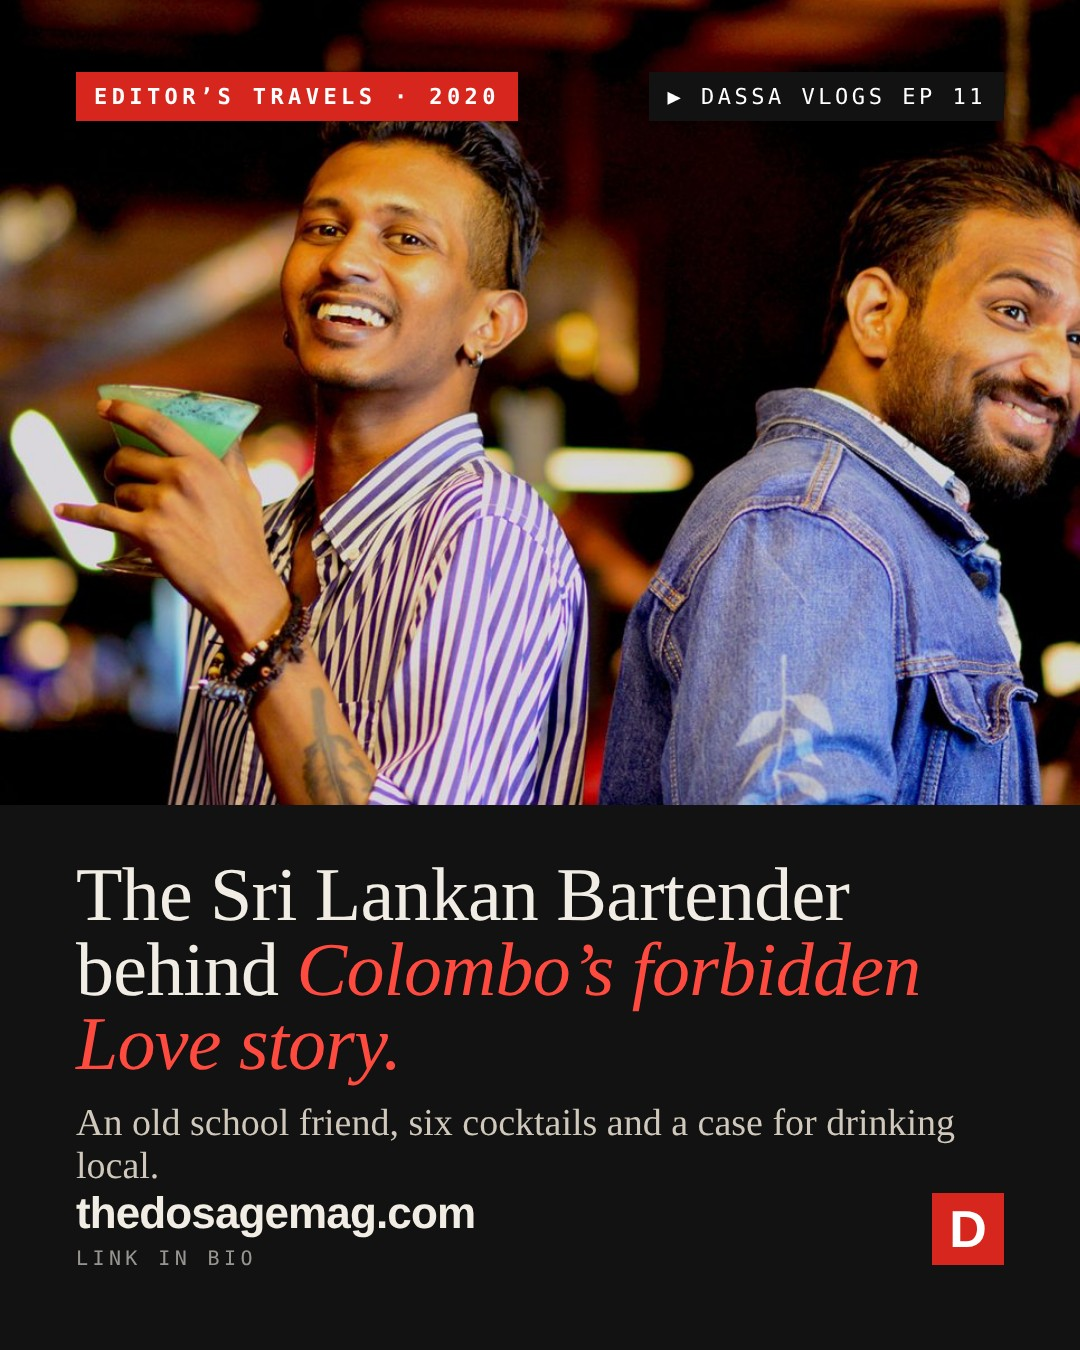
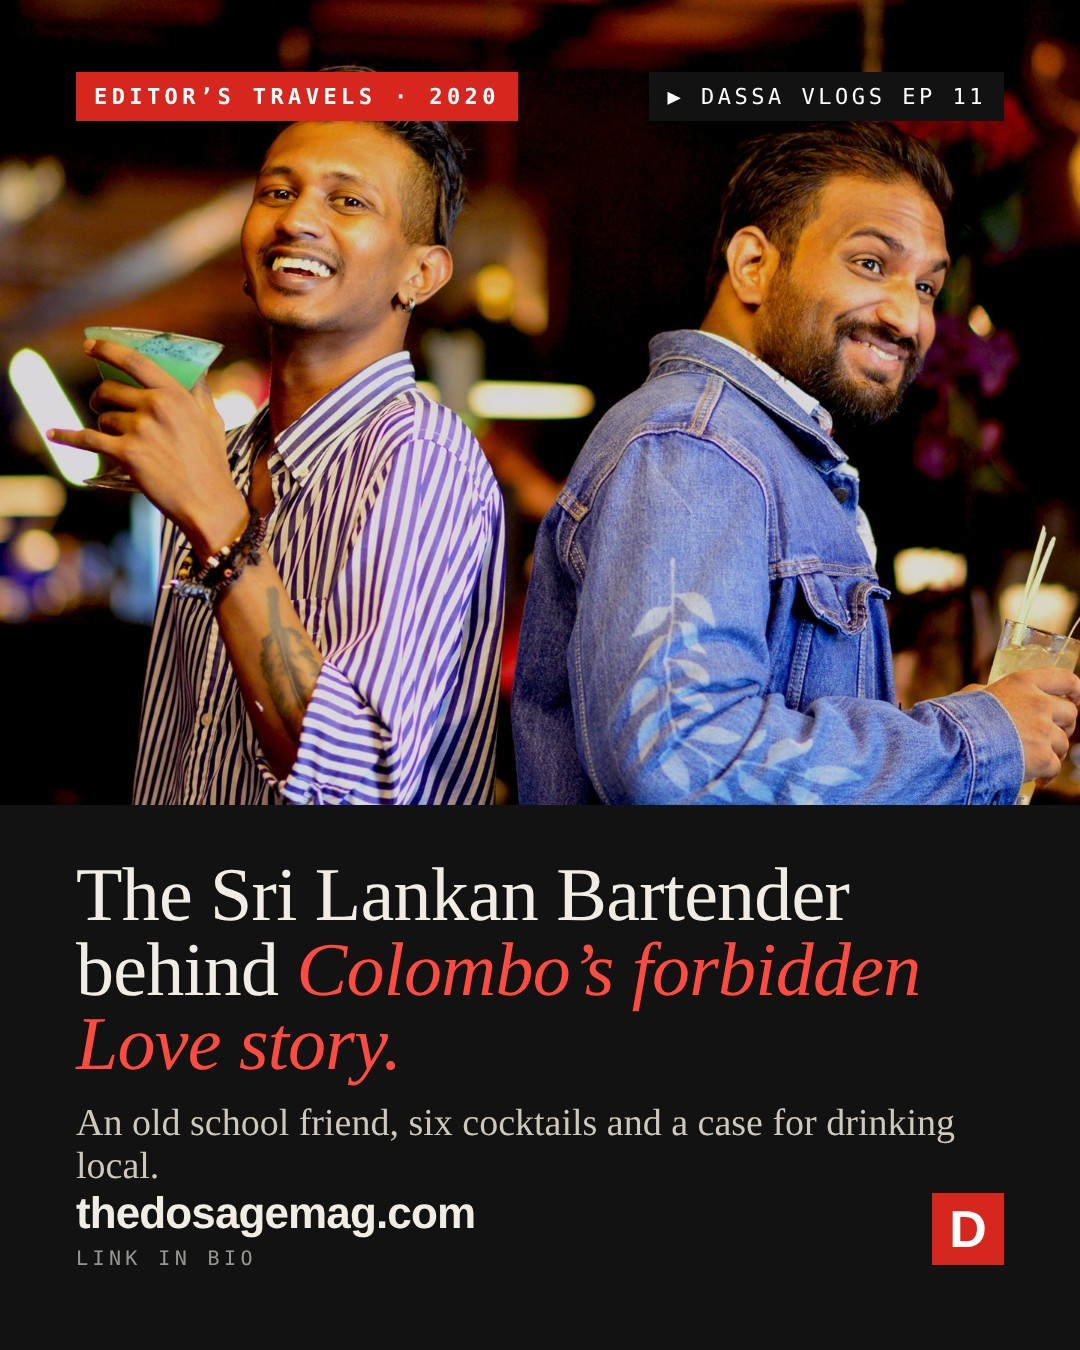
Full credits, photographer credit and cleaner Love Bar photo

diff --git a/src/the-dosage.html b/src/the-dosage.html
@@ -248,6 +248,10 @@ footer a{color:inherit}
 .pic figcaption{font-family:var(--mono);font-size:.72rem;letter-spacing:.06em;color:var(--muted);margin-top:8px}
 .pic.duo{display:grid;grid-template-columns:1fr 1fr;gap:8px}
 .pic.duo figcaption{grid-column:1/-1}
+
+.credits{list-style:none;padding:0;margin:0 0 16px;font-size:.98rem}
+.credits li{padding:6px 0;border-bottom:1px solid var(--rule)}
+.credits b{font-family:var(--mono);font-weight:500;font-size:.72rem;letter-spacing:.12em;text-transform:uppercase;color:var(--muted);margin-right:6px}
 </style>
 
 <header class="bar">
@@ -782,15 +786,17 @@ footer a{color:inherit}
   <h1>The Sri Lankan Bartender behind Colombo's forbidden Love story</h1>
   <p class="dek">A chance meeting with an old school friend at the door of a Colombo 7 bar turned into a night of six cocktails and a case for drinking local.</p>
   <div class="byline"><span class="label red">Editor’s Travels</span><span class="label">Dassa Vlogs · Episode 11</span><span class="label">Eashaan Dassanayaka</span><span class="label">9 June 2020</span></div>
-  <figure class="pic"><img src="posts/img/travels/lovebar-cover.jpg" alt="Vimuth Joseph and Eashaan Dassanayaka with cocktails at the Love Bar, Colombo" width="1600" height="900" loading="lazy"><figcaption>At the Love Bar, Flamingo House, Colombo 7. Photo: Dassa Vlogs</figcaption></figure>
+  <figure class="pic"><img src="posts/img/travels/lovebar-photo.jpg" alt="Vimuth Joseph and Eashaan Dassanayaka with cocktails at the Love Bar, Colombo" width="1440" height="1152" loading="lazy"><figcaption>Vimuth Joseph and Eashaan at the Love Bar, Flamingo House, Colombo 7. Photo: Sebastian Olegard</figcaption></figure>
   <p>Eashaan had been back in Sri Lanka since March 2020 when he walked up to the Love Bar at Flamingo House, Colombo 7, and found Vimuth Joseph at the front door. The two went to school together. The last time they had seen each other was almost six years earlier.</p>
   <p>Vimuth and the bar’s management had just built a new cocktail menu, and Eashaan tasted all six drinks on camera. Most of the ingredients were sourced locally and made in-house, part of a campaign the bar was running to “eat local and drink local” and support Sri Lankan producers.</p>
   <blockquote>Six cocktails, an old friend, and a case for drinking local.</blockquote>
-  <figure class="pic"><img src="posts/img/travels/lovebar-eashaan.jpg" alt="Eashaan Dassanayaka at the Love Bar" width="720" height="720" loading="lazy"><figcaption>On the night at the Love Bar. Photo: Dassa Vlogs</figcaption></figure>
+  <figure class="pic"><img src="posts/img/travels/lovebar-eashaan.jpg" alt="Eashaan Dassanayaka at the Love Bar" width="720" height="720" loading="lazy"><figcaption>On the night at the Love Bar. Photo: Sebastian Olegard</figcaption></figure>
   <p>It was Eashaan’s second visit to the bar, and unlike his quicker vlogs, he spent real time on this one, so viewers could see the place properly.</p>
   <div class="watch"><span class="label red">▶ Watch</span><button type="button" class="yt big" data-yt="li_pTdyu1Z4" aria-label="Play video: The Sri Lankan Bartender behind Colombo's forbidden Love story : Dassa Vlogs ep 11"><img src="https://i.ytimg.com/vi/li_pTdyu1Z4/hqdefault.jpg" alt="" loading="lazy" width="480" height="360"><span class="play" aria-hidden="true"></span><span class="yt-t">The Sri Lankan Bartender behind Colombo's forbidden Love story : Dassa Vlogs ep 11</span></button></div>
   <section class="more-films" aria-label="More films from this story"><h2>More from this story</h2><div class="films"><button type="button" class="yt" data-yt="LPF9ghFLct8" aria-label="Play video: Dassa Vlogs Ep 11 Teaser"><img src="https://i.ytimg.com/vi/LPF9ghFLct8/hqdefault.jpg" alt="" loading="lazy" width="480" height="360"><span class="play" aria-hidden="true"></span><span class="yt-t">Dassa Vlogs Ep 11 Teaser</span></button></div></section>
-  <p class="note">Director and host: Eashaan Dassanayaka. Videographer: Panduka Malalanayake. Camera assistant: Avishka Perera. Photographer: Sebastian Olegard. Production assistant and editor: Janith Dassanayaka. Filmed at the Love Bar, Flamingo House, Colombo 7. First published on Dassa Vlogs, 9 June 2020.</p>
+  <h2>Credits</h2>
+  <ul class="credits"><li><b>Director and producer:</b> <a href="https://www.instagram.com/eashdas/" target="_blank" rel="noopener">Eashaan Dassanayaka</a></li><li><b>Videographer:</b> <a href="https://www.instagram.com/malalanayak/" target="_blank" rel="noopener">Panduka Malalanayake</a></li><li><b>Camera assistant:</b> <a href="https://www.instagram.com/avishka_cheese/" target="_blank" rel="noopener">Avishka Perera</a></li><li><b>Photographer:</b> <a href="https://www.instagram.com/sebastianolegard/" target="_blank" rel="noopener">Sebastian Olegard</a></li><li><b>Production assistant and editor:</b> <a href="https://www.instagram.com/janithdassanayaka/" target="_blank" rel="noopener">Janith Dassanayaka</a></li><li><b>Production house:</b> Extract and Design</li><li><b>Featuring:</b> Vimuth Joseph</li><li><b>Location:</b> <a href="https://www.instagram.com/thelovebarsl/" target="_blank" rel="noopener">The Love Bar</a>, Flamingo House, Colombo 7</li><li><b>Music:</b> YouTube Audio Library; teaser music by Quincas Moreira</li></ul>
+  <p class="note">A non-profit video, first published on Dassa Vlogs on 9 June 2020 (teaser 4 June 2020).</p>
 </article>
 
 <article class="page article" data-page="post-jeana" hidden>
@@ -798,11 +804,11 @@ footer a{color:inherit}
   <h1>Breaking the status quo with Jeana De Zoysa</h1>
   <p class="dek">On the banks of Bolgoda, an old friend and activist talks climate change, veganism and saving Sri Lanka’s wildlife.</p>
   <div class="byline"><span class="label red">Editor’s Travels</span><span class="label">Dassa Vlogs · Episode 13</span><span class="label">Eashaan Dassanayaka</span><span class="label">5 August 2020</span></div>
-  <figure class="pic"><img src="posts/img/travels/jeana-bolgoda.jpg" alt="Jeana De Zoysa and Eashaan Dassanayaka on a bench beside Bolgoda lake" width="1600" height="1066" loading="lazy"><figcaption>On location at Bolgoda, Panadura. Photo: Dassa Vlogs</figcaption></figure>
+  <figure class="pic"><img src="posts/img/travels/jeana-bolgoda.jpg" alt="Jeana De Zoysa and Eashaan Dassanayaka on a bench beside Bolgoda lake" width="1600" height="1066" loading="lazy"><figcaption>On location at Bolgoda, Panadura. Photo: Extract and Design</figcaption></figure>
   <p>A year earlier, Eashaan says, he was sceptical about climate change. Seeing its damage first-hand changed his mind, and this film was the result: a long, unhurried conversation with Jeana De Zoysa, a friend of ten years.</p>
   <p>Jeana was an active member of Extinction Rebellion Sri Lanka and campaigns for animal rights. Filmed at Bolgoda, Panadura, the conversation covers what drives climate change, why she chose a vegan life, and the work of protecting Sri Lanka’s wildlife.</p>
   <blockquote>From sceptic to believer, by seeing the damage first-hand.</blockquote>
-  <figure class="pic duo"><img src="posts/img/travels/jeana-portrait.jpg" alt="Jeana De Zoysa among leaves" width="1600" height="1066" loading="lazy"><img src="posts/img/travels/jeana-interview.jpg" alt="Eashaan and Jeana talking during filming" width="1600" height="898" loading="lazy"><figcaption>Jeana De Zoysa, and the conversation being filmed. Photos: Dassa Vlogs</figcaption></figure>
+  <figure class="pic duo"><img src="posts/img/travels/jeana-portrait.jpg" alt="Jeana De Zoysa among leaves" width="1600" height="1066" loading="lazy"><img src="posts/img/travels/jeana-interview.jpg" alt="Eashaan and Jeana talking during filming" width="1600" height="898" loading="lazy"><figcaption>Jeana De Zoysa, and the conversation being filmed. Photos: Extract and Design</figcaption></figure>
   <p>The film went out the week Sri Lanka voted in its 2020 general election.</p>
   <div class="watch"><span class="label red">▶ Watch</span><button type="button" class="yt big" data-yt="Cer00NxPsfk" aria-label="Play video: Breaking the status quo with Jeana De Zoysa : Dassa Vlogs EP 13"><img src="https://i.ytimg.com/vi/Cer00NxPsfk/hqdefault.jpg" alt="" loading="lazy" width="480" height="360"><span class="play" aria-hidden="true"></span><span class="yt-t">Breaking the status quo with Jeana De Zoysa : Dassa Vlogs EP 13</span></button></div>
   <h2>Causes mentioned in the film</h2>
@@ -810,7 +816,9 @@ footer a{color:inherit}
     <li><a href="https://scar.lk/" target="_blank" rel="noopener">Small Cat Advocacy &amp; Research (SCAR)</a>, which works to protect Sri Lanka’s wild cats</li>
     <li><a href="https://www.vegansociety.com/go-vegan/how-go-vegan" target="_blank" rel="noopener">The Vegan Society’s guide to going vegan</a></li>
   </ul>
-  <p class="note">Director and producer: Eashaan Dassanayaka. Videographer: Chirantha Jayasinhe. Camera assistant: Indika S. Made possible by The Vegan Kadey. Filmed at Bolgoda, Panadura. First published on Dassa Vlogs, 5 August 2020.</p>
+  <h2>Credits</h2>
+  <ul class="credits"><li><b>Director and producer:</b> <a href="https://www.instagram.com/eashdas/" target="_blank" rel="noopener">Eashaan Dassanayaka</a></li><li><b>Videographer:</b> Chirantha Jayasinhe</li><li><b>Camera assistant:</b> Indika S Kumara</li><li><b>Camera partner:</b> ASD camera rent</li><li><b>Production house:</b> Extract and Design</li><li><b>Talent:</b> Jeana De Zoysa</li><li><b>Made possible by:</b> <a href="https://www.facebook.com/vegankade/" target="_blank" rel="noopener">The Vegan Kadey</a></li><li><b>Location:</b> Bolgoda, Panadura</li><li><b>Music:</b> <a href="https://mixkit.co/" target="_blank" rel="noopener">Mixkit</a> and <a href="https://www.purple-planet.com/" target="_blank" rel="noopener">Purple Planet</a>; stock footage from Mixkit</li></ul>
+  <p class="note">A non-profit video, first published on Dassa Vlogs on 5 August 2020.</p>
 </article>
 
 <!-- ARTICLES -->

diff --git a/index.html b/index.html
@@ -254,6 +254,10 @@ footer a{color:inherit}
 .pic figcaption{font-family:var(--mono);font-size:.72rem;letter-spacing:.06em;color:var(--muted);margin-top:8px}
 .pic.duo{display:grid;grid-template-columns:1fr 1fr;gap:8px}
 .pic.duo figcaption{grid-column:1/-1}
+
+.credits{list-style:none;padding:0;margin:0 0 16px;font-size:.98rem}
+.credits li{padding:6px 0;border-bottom:1px solid var(--rule)}
+.credits b{font-family:var(--mono);font-weight:500;font-size:.72rem;letter-spacing:.12em;text-transform:uppercase;color:var(--muted);margin-right:6px}
 </style>
 </head>
 <body>
@@ -790,15 +794,17 @@ footer a{color:inherit}
   <h1>The Sri Lankan Bartender behind Colombo's forbidden Love story</h1>
   <p class="dek">A chance meeting with an old school friend at the door of a Colombo 7 bar turned into a night of six cocktails and a case for drinking local.</p>
   <div class="byline"><span class="label red">Editor’s Travels</span><span class="label">Dassa Vlogs · Episode 11</span><span class="label">Eashaan Dassanayaka</span><span class="label">9 June 2020</span></div>
-  <figure class="pic"><img src="posts/img/travels/lovebar-cover.jpg" alt="Vimuth Joseph and Eashaan Dassanayaka with cocktails at the Love Bar, Colombo" width="1600" height="900" loading="lazy"><figcaption>At the Love Bar, Flamingo House, Colombo 7. Photo: Dassa Vlogs</figcaption></figure>
+  <figure class="pic"><img src="posts/img/travels/lovebar-photo.jpg" alt="Vimuth Joseph and Eashaan Dassanayaka with cocktails at the Love Bar, Colombo" width="1440" height="1152" loading="lazy"><figcaption>Vimuth Joseph and Eashaan at the Love Bar, Flamingo House, Colombo 7. Photo: Sebastian Olegard</figcaption></figure>
   <p>Eashaan had been back in Sri Lanka since March 2020 when he walked up to the Love Bar at Flamingo House, Colombo 7, and found Vimuth Joseph at the front door. The two went to school together. The last time they had seen each other was almost six years earlier.</p>
   <p>Vimuth and the bar’s management had just built a new cocktail menu, and Eashaan tasted all six drinks on camera. Most of the ingredients were sourced locally and made in-house, part of a campaign the bar was running to “eat local and drink local” and support Sri Lankan producers.</p>
   <blockquote>Six cocktails, an old friend, and a case for drinking local.</blockquote>
-  <figure class="pic"><img src="posts/img/travels/lovebar-eashaan.jpg" alt="Eashaan Dassanayaka at the Love Bar" width="720" height="720" loading="lazy"><figcaption>On the night at the Love Bar. Photo: Dassa Vlogs</figcaption></figure>
+  <figure class="pic"><img src="posts/img/travels/lovebar-eashaan.jpg" alt="Eashaan Dassanayaka at the Love Bar" width="720" height="720" loading="lazy"><figcaption>On the night at the Love Bar. Photo: Sebastian Olegard</figcaption></figure>
   <p>It was Eashaan’s second visit to the bar, and unlike his quicker vlogs, he spent real time on this one, so viewers could see the place properly.</p>
   <div class="watch"><span class="label red">▶ Watch</span><button type="button" class="yt big" data-yt="li_pTdyu1Z4" aria-label="Play video: The Sri Lankan Bartender behind Colombo's forbidden Love story : Dassa Vlogs ep 11"><img src="https://i.ytimg.com/vi/li_pTdyu1Z4/hqdefault.jpg" alt="" loading="lazy" width="480" height="360"><span class="play" aria-hidden="true"></span><span class="yt-t">The Sri Lankan Bartender behind Colombo's forbidden Love story : Dassa Vlogs ep 11</span></button></div>
   <section class="more-films" aria-label="More films from this story"><h2>More from this story</h2><div class="films"><button type="button" class="yt" data-yt="LPF9ghFLct8" aria-label="Play video: Dassa Vlogs Ep 11 Teaser"><img src="https://i.ytimg.com/vi/LPF9ghFLct8/hqdefault.jpg" alt="" loading="lazy" width="480" height="360"><span class="play" aria-hidden="true"></span><span class="yt-t">Dassa Vlogs Ep 11 Teaser</span></button></div></section>
-  <p class="note">Director and host: Eashaan Dassanayaka. Videographer: Panduka Malalanayake. Camera assistant: Avishka Perera. Photographer: Sebastian Olegard. Production assistant and editor: Janith Dassanayaka. Filmed at the Love Bar, Flamingo House, Colombo 7. First published on Dassa Vlogs, 9 June 2020.</p>
+  <h2>Credits</h2>
+  <ul class="credits"><li><b>Director and producer:</b> <a href="https://www.instagram.com/eashdas/" target="_blank" rel="noopener">Eashaan Dassanayaka</a></li><li><b>Videographer:</b> <a href="https://www.instagram.com/malalanayak/" target="_blank" rel="noopener">Panduka Malalanayake</a></li><li><b>Camera assistant:</b> <a href="https://www.instagram.com/avishka_cheese/" target="_blank" rel="noopener">Avishka Perera</a></li><li><b>Photographer:</b> <a href="https://www.instagram.com/sebastianolegard/" target="_blank" rel="noopener">Sebastian Olegard</a></li><li><b>Production assistant and editor:</b> <a href="https://www.instagram.com/janithdassanayaka/" target="_blank" rel="noopener">Janith Dassanayaka</a></li><li><b>Production house:</b> Extract and Design</li><li><b>Featuring:</b> Vimuth Joseph</li><li><b>Location:</b> <a href="https://www.instagram.com/thelovebarsl/" target="_blank" rel="noopener">The Love Bar</a>, Flamingo House, Colombo 7</li><li><b>Music:</b> YouTube Audio Library; teaser music by Quincas Moreira</li></ul>
+  <p class="note">A non-profit video, first published on Dassa Vlogs on 9 June 2020 (teaser 4 June 2020).</p>
 </article>
 
 <article class="page article" data-page="post-jeana" hidden>
@@ -806,11 +812,11 @@ footer a{color:inherit}
   <h1>Breaking the status quo with Jeana De Zoysa</h1>
   <p class="dek">On the banks of Bolgoda, an old friend and activist talks climate change, veganism and saving Sri Lanka’s wildlife.</p>
   <div class="byline"><span class="label red">Editor’s Travels</span><span class="label">Dassa Vlogs · Episode 13</span><span class="label">Eashaan Dassanayaka</span><span class="label">5 August 2020</span></div>
-  <figure class="pic"><img src="posts/img/travels/jeana-bolgoda.jpg" alt="Jeana De Zoysa and Eashaan Dassanayaka on a bench beside Bolgoda lake" width="1600" height="1066" loading="lazy"><figcaption>On location at Bolgoda, Panadura. Photo: Dassa Vlogs</figcaption></figure>
+  <figure class="pic"><img src="posts/img/travels/jeana-bolgoda.jpg" alt="Jeana De Zoysa and Eashaan Dassanayaka on a bench beside Bolgoda lake" width="1600" height="1066" loading="lazy"><figcaption>On location at Bolgoda, Panadura. Photo: Extract and Design</figcaption></figure>
   <p>A year earlier, Eashaan says, he was sceptical about climate change. Seeing its damage first-hand changed his mind, and this film was the result: a long, unhurried conversation with Jeana De Zoysa, a friend of ten years.</p>
   <p>Jeana was an active member of Extinction Rebellion Sri Lanka and campaigns for animal rights. Filmed at Bolgoda, Panadura, the conversation covers what drives climate change, why she chose a vegan life, and the work of protecting Sri Lanka’s wildlife.</p>
   <blockquote>From sceptic to believer, by seeing the damage first-hand.</blockquote>
-  <figure class="pic duo"><img src="posts/img/travels/jeana-portrait.jpg" alt="Jeana De Zoysa among leaves" width="1600" height="1066" loading="lazy"><img src="posts/img/travels/jeana-interview.jpg" alt="Eashaan and Jeana talking during filming" width="1600" height="898" loading="lazy"><figcaption>Jeana De Zoysa, and the conversation being filmed. Photos: Dassa Vlogs</figcaption></figure>
+  <figure class="pic duo"><img src="posts/img/travels/jeana-portrait.jpg" alt="Jeana De Zoysa among leaves" width="1600" height="1066" loading="lazy"><img src="posts/img/travels/jeana-interview.jpg" alt="Eashaan and Jeana talking during filming" width="1600" height="898" loading="lazy"><figcaption>Jeana De Zoysa, and the conversation being filmed. Photos: Extract and Design</figcaption></figure>
   <p>The film went out the week Sri Lanka voted in its 2020 general election.</p>
   <div class="watch"><span class="label red">▶ Watch</span><button type="button" class="yt big" data-yt="Cer00NxPsfk" aria-label="Play video: Breaking the status quo with Jeana De Zoysa : Dassa Vlogs EP 13"><img src="https://i.ytimg.com/vi/Cer00NxPsfk/hqdefault.jpg" alt="" loading="lazy" width="480" height="360"><span class="play" aria-hidden="true"></span><span class="yt-t">Breaking the status quo with Jeana De Zoysa : Dassa Vlogs EP 13</span></button></div>
   <h2>Causes mentioned in the film</h2>
@@ -818,7 +824,9 @@ footer a{color:inherit}
     <li><a href="https://scar.lk/" target="_blank" rel="noopener">Small Cat Advocacy &amp; Research (SCAR)</a>, which works to protect Sri Lanka’s wild cats</li>
     <li><a href="https://www.vegansociety.com/go-vegan/how-go-vegan" target="_blank" rel="noopener">The Vegan Society’s guide to going vegan</a></li>
   </ul>
-  <p class="note">Director and producer: Eashaan Dassanayaka. Videographer: Chirantha Jayasinhe. Camera assistant: Indika S. Made possible by The Vegan Kadey. Filmed at Bolgoda, Panadura. First published on Dassa Vlogs, 5 August 2020.</p>
+  <h2>Credits</h2>
+  <ul class="credits"><li><b>Director and producer:</b> <a href="https://www.instagram.com/eashdas/" target="_blank" rel="noopener">Eashaan Dassanayaka</a></li><li><b>Videographer:</b> Chirantha Jayasinhe</li><li><b>Camera assistant:</b> Indika S Kumara</li><li><b>Camera partner:</b> ASD camera rent</li><li><b>Production house:</b> Extract and Design</li><li><b>Talent:</b> Jeana De Zoysa</li><li><b>Made possible by:</b> <a href="https://www.facebook.com/vegankade/" target="_blank" rel="noopener">The Vegan Kadey</a></li><li><b>Location:</b> Bolgoda, Panadura</li><li><b>Music:</b> <a href="https://mixkit.co/" target="_blank" rel="noopener">Mixkit</a> and <a href="https://www.purple-planet.com/" target="_blank" rel="noopener">Purple Planet</a>; stock footage from Mixkit</li></ul>
+  <p class="note">A non-profit video, first published on Dassa Vlogs on 5 August 2020.</p>
 </article>
 
 <!-- ARTICLES -->
